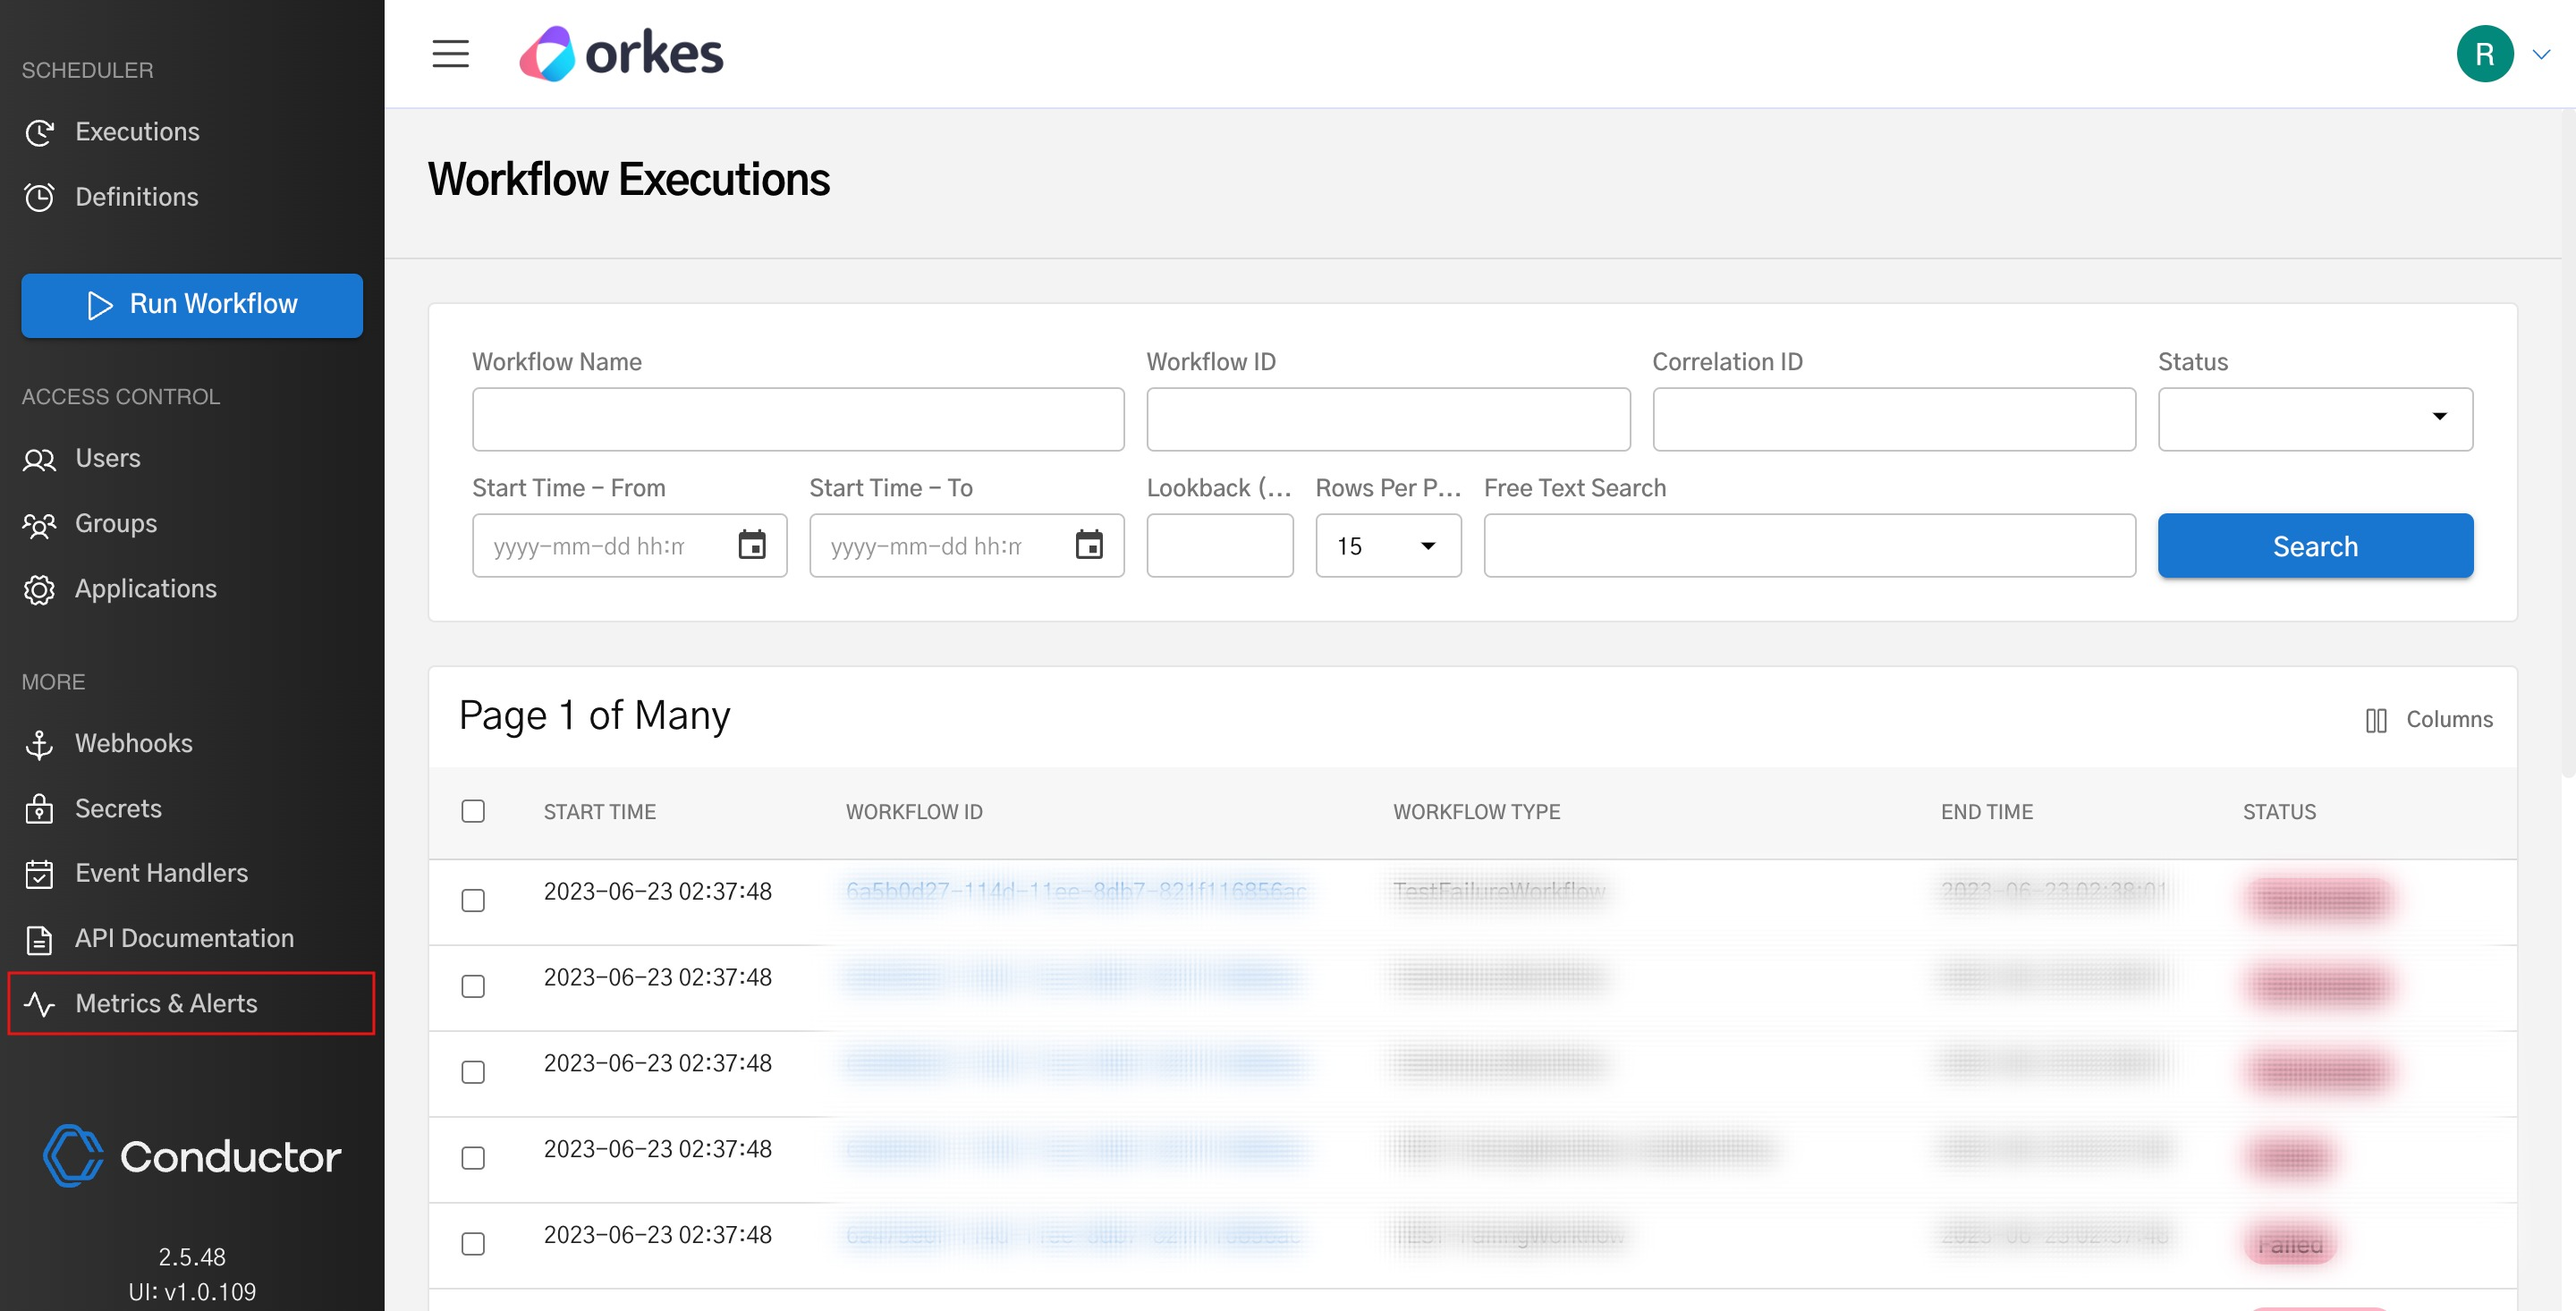
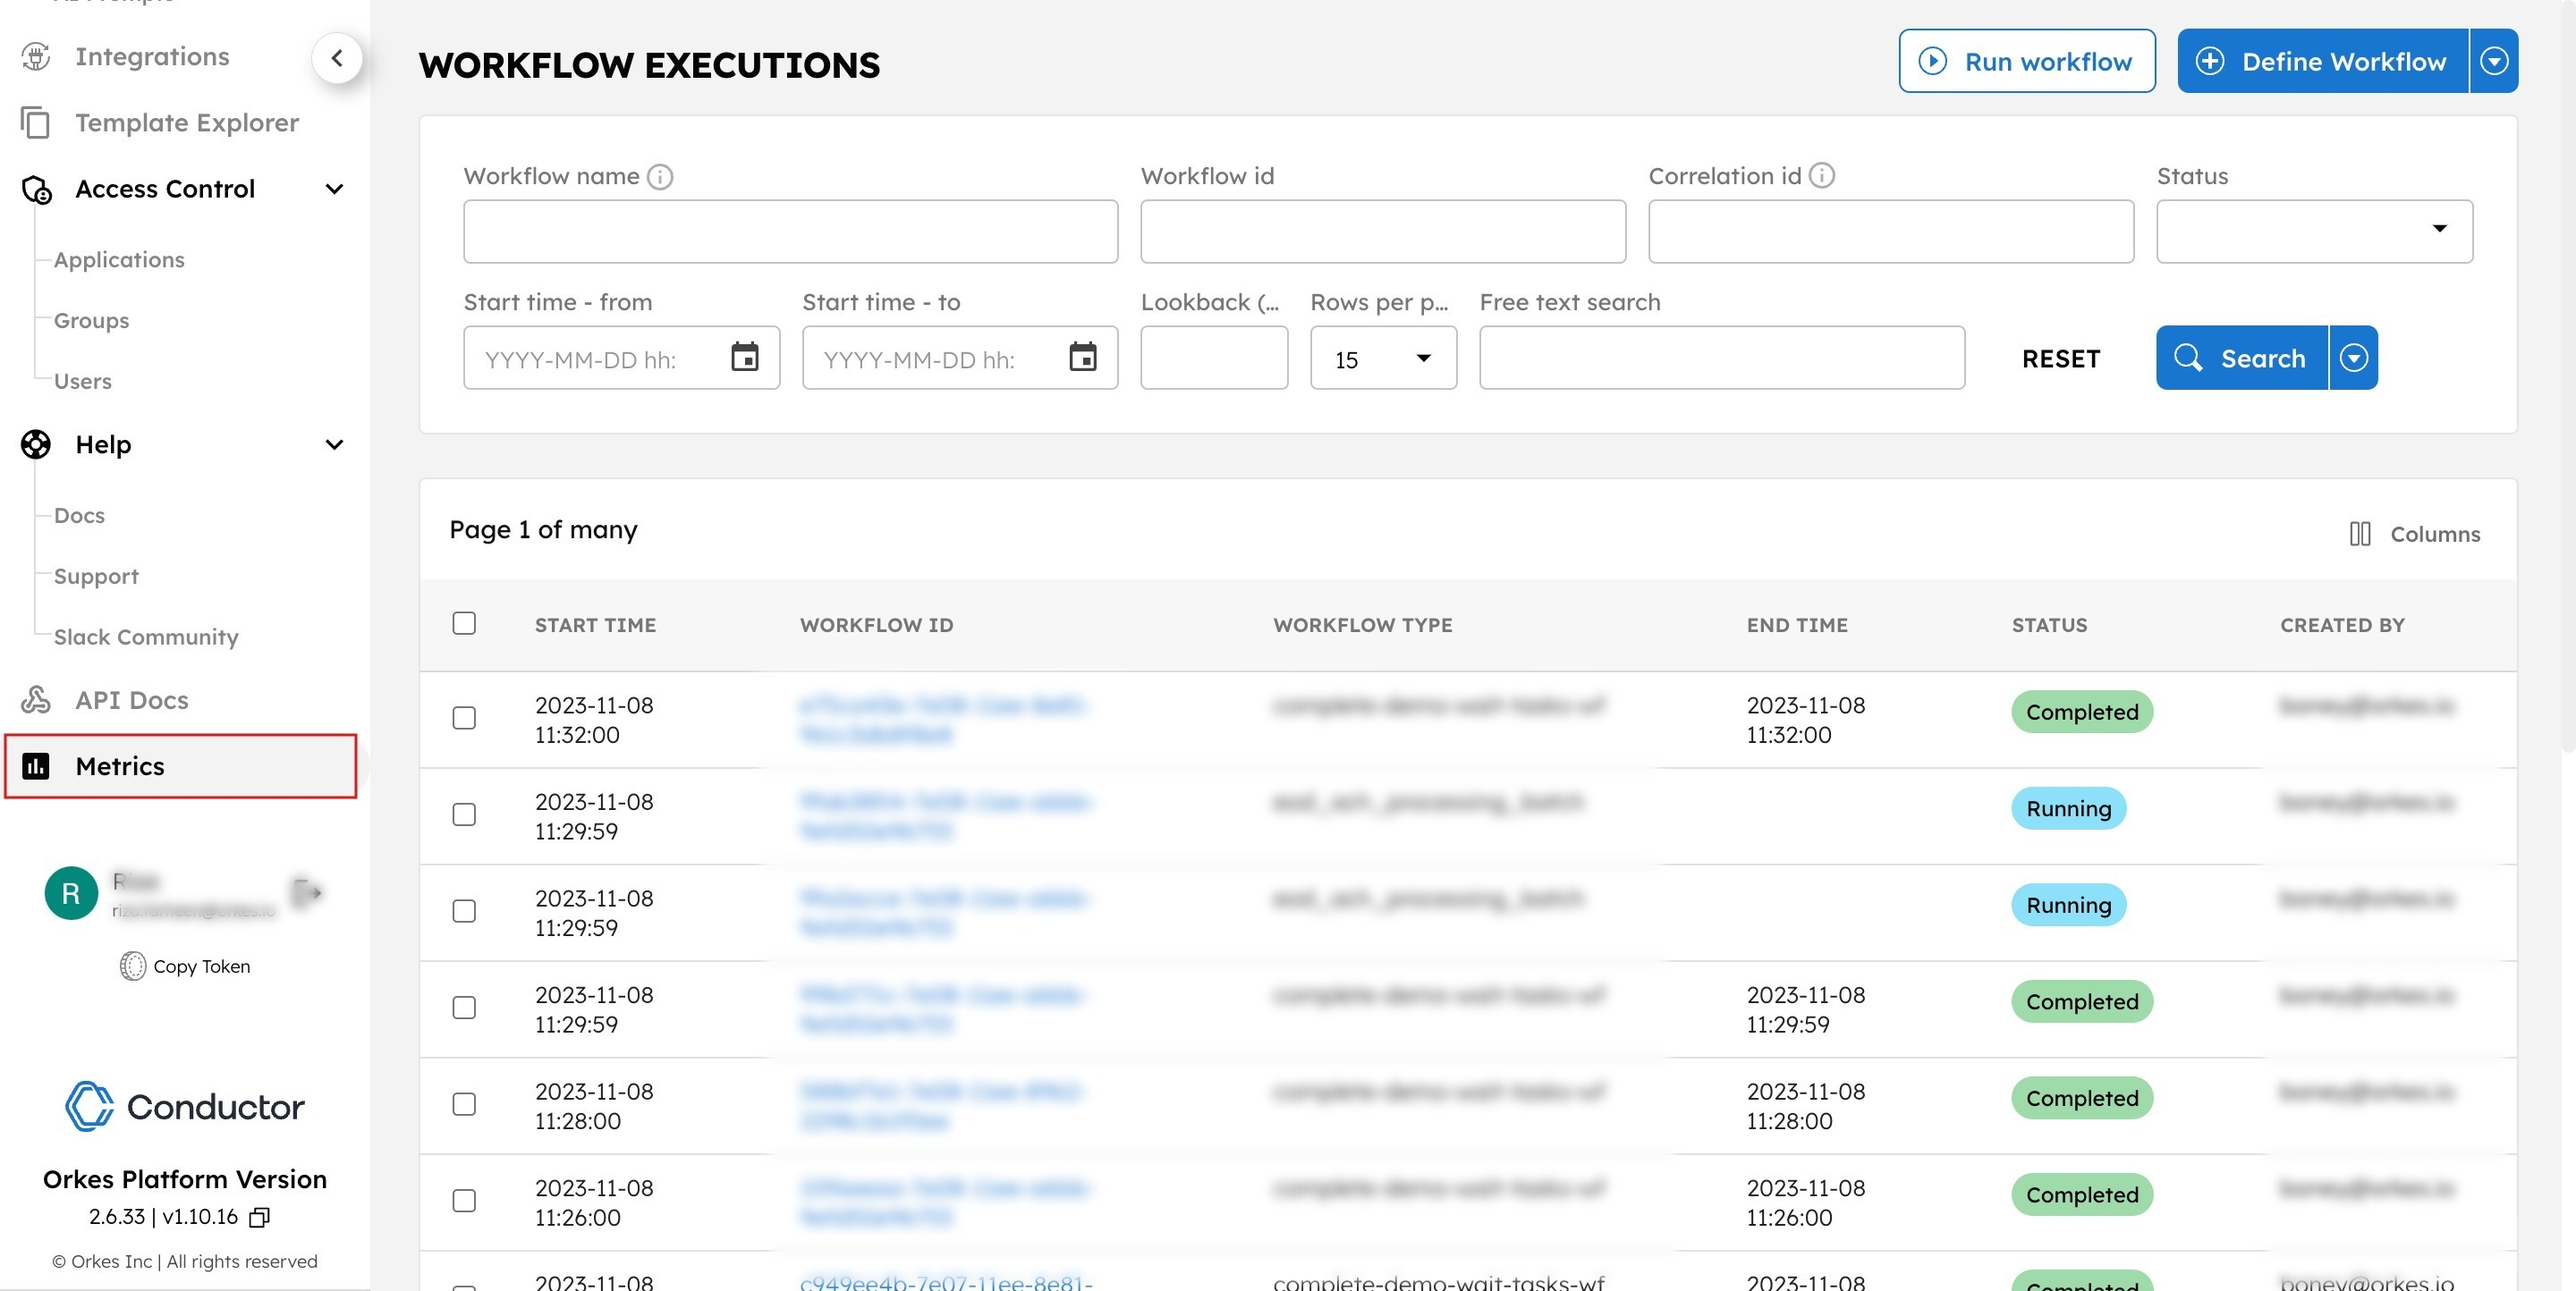
metrics

diff --git a/docs/developer-guides/metrics-and-observability.md b/docs/developer-guides/metrics-and-observability.md
@@ -11,7 +11,7 @@ Orkes Conductor uses the popular platform Prometheus for recording a rich set of
 
 In this document, we’ve included a sample dashboard set using Prometheus & Grafana.
 
-1. To access your dashboard, navigate to **Metrics & Alerts** from your Conductor console. If you cannot see the “Metrics & Alerts” option on your Conductor console, [please reach out to our team](https://app.slack.com/client/T02KG20GJ1Z/C02KJ820XPW). 
+1. To access your dashboard, navigate to **Metrics** from your Conductor console. If you cannot see this option on your Conductor console, [please reach out to our team](https://app.slack.com/client/T02KG20GJ1Z/C02KJ820XPW). 
 
 <p align="center"><img src="/content/img/accessing-dashboard.png" alt="Accessing dashboard from Conductor Console" width="100%" height="auto"></img></p>
 
